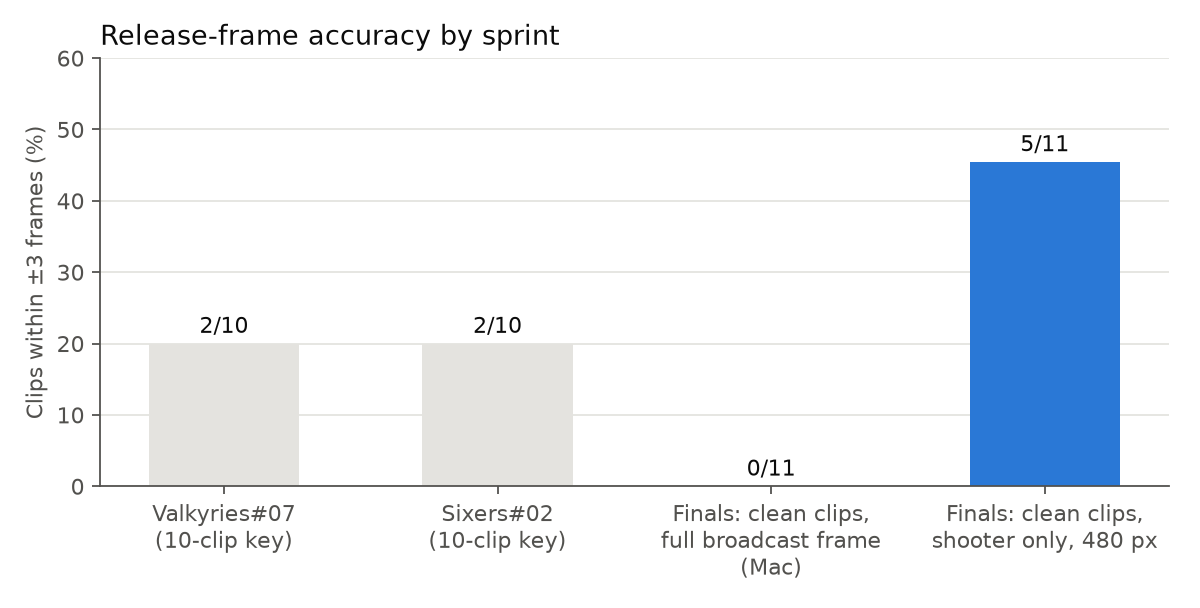
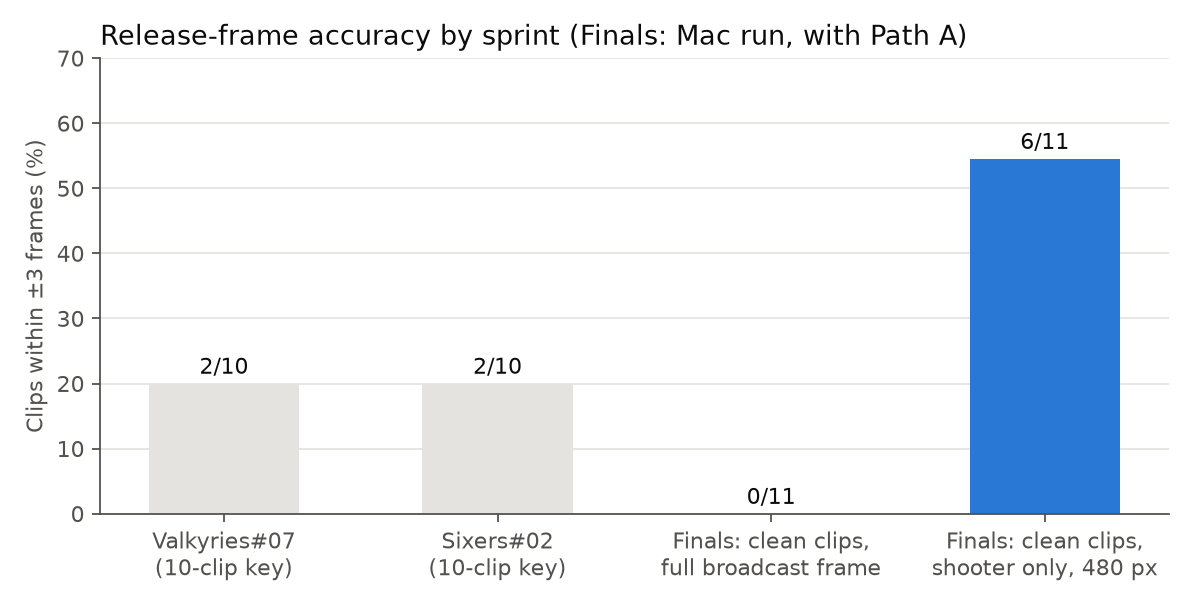
Finals#04

diff --git a/ml/tests/test_release_accuracy.py b/ml/tests/test_release_accuracy.py
@@ -5,8 +5,8 @@ on the answer-key clips that skip when the clips aren't downloaded
 (CLIPS_DIR, default ~/clips).
 
 Clean-set number this guards (Finals#04, testing/reports/accuracy.md):
-shooter-only 480 px clips -> 5/11 within ±3 frames; 6/11 get a release
-(average error 3.5 frames on those), the other 5 are refused with a reason.
+shooter-only 480 px clips (Mac, M3 Pro) -> 6/11 within ±3 frames; 8/11 get a
+release (average error 3.4 frames on those), the other 3 are refused with a reason.
 """
 import csv
 import os
@@ -36,9 +36,9 @@ SHOOTER_X = {
     "Kelvin_Huang_06_Make.mp4": 0.24, "Kelvin_Huang_09_Make.mp4": 0.25,
     "Veronica_made_04.mp4": 0.69,
 }
-FINAL_WITHIN_3 = 5      # of 11
-FINAL_AVG_ERROR = 3.5   # frames, over detected clips
-FINAL_REFUSED = 5       # clean clips returned as None
+FINAL_WITHIN_3 = 6      # of 11
+FINAL_AVG_ERROR = 3.4   # frames, over detected clips
+FINAL_REFUSED = 3       # clean clips returned as None
 WITHIN_3_SLACK = 2      # MediaPipe output differs a little between machines
 AVG_SLACK = 5.0
 

diff --git a/testing/reports/accuracy.md b/testing/reports/accuracy.md
@@ -96,88 +96,64 @@ Updated in `ml/feedback_rules.py` (ANGLE_RANGES) and `frontend/constants/ranges.
 
 ## Finals#04: clean answer key, honest accuracy
 
-**Clean answer key.** I picked 11 clips on footage quality alone, before running the detector: whole body and ball in frame, filmed from the side, sharp at the release, one continuous take, not rotated. Six come from the old key and five are new (Freya_Made_7, Kelvin_Huang_04/06/09_Make, Veronica_made_04). The new five are hand-labeled with the same rule as the old ones: the first frame where there's a visible gap between the ball and the fingertips. I spot-checked the six existing labels for clean clips and they follow the same rule. The 4 bad clips are flagged in `testing/test-videos.md` and stay in the CSV. Two more were picked from the Drive and then dropped: Freya_Made_8 is the same free throw as Freya_Made_7, and Freya_Made_6, Kelvin_Huang_01/05_Make and Veronica_made_02/06/07/08 have spliced intros. All the David_* and Anisha_* clips are rotated 90°.
+**Clean answer key.** I picked 11 clips on footage quality alone, before running the detector: whole body and ball in frame, filmed from the side, sharp at the release, one continuous take, not rotated. Six come from the old key and five are new (Freya_Made_7, Kelvin_Huang_04/06/09_Make, Veronica_made_04). The new five are hand-labeled with the same rule as the old ones: the first frame where there's a visible gap between the ball and the fingertips. I spot-checked the six existing clean labels, and Freya_Made_7 and Kelvin_Huang_04_Make were re-checked in `frame_viewer.py`. The 4 bad clips are flagged in `testing/test-videos.md` and stay in the CSV. Two more were picked from the Drive and then dropped: Freya_Made_8 is the same free throw as Freya_Made_7, and Freya_Made_6, Kelvin_Huang_01/05_Make and Veronica_made_02/06/07/08 have spliced intros. All the David_* and Anisha_* clips are rotated 90°.
 
-**Measured on:** Linux, MediaPipe 0.10.21, `-fps_mode passthrough` so frame numbers match the key. 480 px means 480 wide. **MediaPipe output differs a little between machines.** For example, Kelvin_Huang_05 was "118" on the Sixers#02 Mac run and is "None" here, so re-run on your machine before quoting single clips.
+**Measured on:** MacBook Pro (Apple M3 Pro), MediaPipe 0.10.21, with `python ~/clips/mac_eval.py`. It uses the same functions as `ml/tools/eval_release.py`. "Before" = Sixers#02 detector (release rule only); "after" = Finals#04 Path A checks. 480 px = 480 wide, encoded with `-fps_mode passthrough` so frame numbers match the key. **MediaPipe output differs between machines.** A Linux run gave different per-clip results; the conclusion was the same.
 
 ### Per clip, as filmed (full broadcast frame)
-"Before" is the Sixers#02 detector and "after" is Finals#04 Path A. Each cell is the detected frame, with the error in brackets.
+Each cell is the detected frame, with the error in brackets.
 
 | Clip | Quality | Hand label | Before full | Before 480 | After full | After 480 | Why None (after, full size) |
 |---|---|---:|---|---|---|---|---|
-| Veronica_made_05 | bad | 84 | 47 (37) | 124 (40) | None | None | Pose lost near the release |
-| Kelvin_Huang_05_Missed | clean | 63 | None | None | None | None | Wrist never goes above the shoulder |
-| Veronica_made_03 | clean | 183 | 185 (2) | None | 185 (2) | None |  |
-| Veronica_made_01 | clean | 56 | None | 0 (56) | None | 0 (56) | Wrist never goes above the shoulder |
-| Veronica_missed_03 | clean | 83 | 96 (13) | 149 (66) | None | None | Tracked person jumps / changes |
-| Kelvin_Huang_08_Missed | clean | 96 | 98 (2) | 54 (42) | 98 (2) | None |  |
-| Anisha_Made_05 | bad | 77 | 103 (26) | 103 (26) | None | None | Video looks sideways |
-| Rijul_missed_05 | bad | 71 | 97 (26) | None | None | None | Video looks sideways |
-| Veronica_missed_04 | bad | 31 | 16 (15) | 0 (31) | 16 (15) | 0 (31) |  |
-| Manoj_Missed_07 | clean | 115 | None | 117 (2) | None | None | Wrist never goes above the shoulder |
-| Freya_Made_7 | clean | 24 | 121 (97) | 129 (105) | 121 (97) | 129 (105) |  |
-| Kelvin_Huang_04_Make | clean | 91 | None | 217 (126) | None | 217 (126) | Wrist never goes above the shoulder |
-| Kelvin_Huang_06_Make | clean | 182 | None | 8 (174) | None | None | Wrist never goes above the shoulder |
-| Kelvin_Huang_09_Make | clean | 126 | 44 (82) | 186 (60) | None | None | Pose lost near the release |
-| Veronica_made_04 | clean | 59 | 171 (112) | 178 (119) | None | 178 (119) | Tracked person jumps / changes |
+| Veronica_made_05 | bad | 84 | 44 (40) | 45 (39) | 44 (40) | None |  |
+| Kelvin_Huang_05_Missed | clean | 63 | 118 (55) | 3 (60) | None | None | Pose lost near the release |
+| Veronica_made_03 | clean | 183 | 185 (2) | 105 (78) | None | 105 (78) | Tracked person jumps / changes |
+| Veronica_made_01 | clean | 56 | None | 8 (48) | None | None | Wrist never goes above the shoulder |
+| Veronica_missed_03 | clean | 83 | 96 (13) | 185 (102) | 96 (13) | None |  |
+| Kelvin_Huang_08_Missed | clean | 96 | 72 (24) | 114 (18) | None | None | Tracked person jumps / changes |
+| Anisha_Made_05 | bad | 77 | 104 (27) | 103 (26) | None | None | Video looks sideways |
+| Rijul_missed_05 | bad | 71 | 90 (19) | None | None | None | Video looks sideways |
+| Veronica_missed_04 | bad | 31 | 14 (17) | 0 (31) | 14 (17) | 0 (31) |  |
+| Manoj_Missed_07 | clean | 115 | 116 (1) | 114 (1) | None | None | Tracked person jumps / changes |
+| Freya_Made_7 | clean | 24 | 115 (91) | None | None | None | Tracked person jumps / changes |
+| Kelvin_Huang_04_Make | clean | 91 | 24 (67) | 123 (32) | None | None | Pose lost near the release |
+| Kelvin_Huang_06_Make | clean | 182 | 2 (180) | 270 (88) | 2 (180) | 270 (88) |  |
+| Kelvin_Huang_09_Make | clean | 126 | 187 (61) | 96 (30) | 187 (61) | None |  |
+| Veronica_made_04 | clean | 59 | 185 (126) | 158 (99) | None | None | Tracked person jumps / changes |
 
 | Set (full broadcast frame) | Size | Within ±3 | Release found | Avg error (found only) |
 |---|---|---|---|---|
-| Clean, before | full / 480 | 2/11 / 1/11 | 6 / 9 | 51.3 / 83.3 |
-| Clean, after | full / 480 | 2/11 / 0/11 | 3 / 4 | 33.7 / 101.5 |
-| Bad, before | full / 480 | 0/4 / 0/4 | 4 / 3 | 26.0 / 32.3 |
-| Bad, after | full / 480 | 0/4 / 0/4 | 1 / 1 | 15.0 / 31.0 |
-| All 15, before | full / 480 | 2/15 / 1/15 | 10 / 12 | 41.2 / 70.6 |
+| Clean, before | full / 480 | 2/11 / 1/11 | 10 / 10 | 62.0 / 55.6 |
+| Clean, after | full / 480 | 0/11 / 0/11 | 3 / 2 | 84.7 / 83.0 |
+| Bad, before | full / 480 | 0/4 / 0/4 | 4 / 3 | 25.8 / 32.0 |
+| Bad, after | full / 480 | 0/4 / 0/4 | 2 / 1 | 28.5 / 31.0 |
+| All 15, before | full / 480 | 2/15 / 1/15 | 14 / 13 | 51.6 / 50.2 |
+| All 15, after | full / 480 | 0/15 / 0/15 | 5 / 3 | 62.2 / 65.7 |
 
-**Why clean clips still fail: the pose is on the wrong player.** In broadcast footage there are 8 to 10 people on screen, and MediaPipe Pose tracks one of them, often not the shooter. I checked the 15 frames before each hand label to see whether the tracked body was the shooter. It was for only 3 runs, which were Veronica_made_03 (full size), Kelvin_08 (full size) and Manoj_07 (480). All 3 were **2 frames off**, and every other run was on another player or had no pose. So the "Wrist never goes above the shoulder" results are mostly a bystander standing still. See `docs/writeups/img/wrong_person_Veronica_made_01.jpg`.
+**Why clean clips fail as filmed: the pose is on the wrong player.** Broadcast footage has 8 to 10 people on screen, and MediaPipe Pose tracks one of them, often not the shooter. On a Linux run I checked the 15 frames before each hand label to see whether the tracked body was the shooter. It was in only 3 runs, and all 3 were **2 frames off**. Every other run was on another player or had no pose. See `docs/writeups/img/wrong_person_Veronica_made_01.jpg`.
 
 ### Clean clips with only the shooter in frame (what the app asks users to film)
 Same 11 clips, cropped to 30% of the width around the shooter and scaled to 480 px. `ml/tests/test_release_accuracy.py` builds exactly this.
 
-| Clip | Hand label | Rule only | With Path A checks | Why None |
+| Clip | Hand label | Before (rule only) | After (Path A) | Why None |
 |---|---:|---|---|---|
-| Kelvin_Huang_05_Missed | 63 | 73 (10) | None | Tracked person jumps / changes |
-| Veronica_made_03 | 183 | 185 (2) | 185 (2) |  |
-| Veronica_made_01 | 56 | None | None | Wrist never goes above the shoulder |
-| Veronica_missed_03 | 83 | None | None | Wrist never goes above the shoulder |
-| Kelvin_Huang_08_Missed | 96 | 98 (2) | 98 (2) |  |
+| Kelvin_Huang_05_Missed | 63 | 65 (2) | None | Tracked person jumps / changes |
+| Veronica_made_03 | 183 | 184 (1) | 184 (1) |  |
+| Veronica_made_01 | 56 | 51 (5) | 51 (5) |  |
+| Veronica_missed_03 | 83 | 83 (0) | 83 (0) |  |
+| Kelvin_Huang_08_Missed | 96 | 99 (3) | 99 (3) |  |
 | Manoj_Missed_07 | 115 | None | None | Wrist never goes above the shoulder |
 | Freya_Made_7 | 24 | 26 (2) | 26 (2) |  |
-| Kelvin_Huang_04_Make | 91 | 92 (1) | 92 (1) |  |
+| Kelvin_Huang_04_Make | 91 | 93 (2) | 93 (2) |  |
 | Kelvin_Huang_06_Make | 182 | 185 (3) | 185 (3) |  |
-| Kelvin_Huang_09_Make | 126 | None | None | Wrist never goes above the shoulder |
+| Kelvin_Huang_09_Make | 126 | 127 (1) | None | Tracked person jumps / changes |
 | Veronica_made_04 | 59 | 70 (11) | 70 (11) |  |
 
-**Shooter only, 480 px: 5/11 within ±3. A release is found on 6/11, and those 6 average 3.5 frames off (5 of them within ±3). The other 5 are refused with a reason instead of a wrong frame.** The crop still has a teammate or defender in view, so some refusals are the same wrong-person problem.
-
-
-### Re-run on a Mac (official step-7 command, Apple M3 Pro)
-`python -m ml.tools.eval_release ~/clips data/release_frames.csv`, after Path A, full broadcast frame:
-
-| Clip | Quality | Hand label | Detected (error) | Note |
-|---|---|---:|---|---|
-| Veronica_made_05 | bad | 84 | 44 (40) |  |
-| Kelvin_Huang_05_Missed | clean | 63 | None | Pose lost near the release |
-| Veronica_made_03 | clean | 183 | None | Tracked person jumps / changes |
-| Veronica_made_01 | clean | 56 | None | Wrist never goes above the shoulder |
-| Veronica_missed_03 | clean | 83 | 96 (13) |  |
-| Kelvin_Huang_08_Missed | clean | 96 | None | Tracked person jumps / changes |
-| Anisha_Made_05 | bad | 77 | None | Video looks sideways |
-| Rijul_missed_05 | bad | 71 | None | Video looks sideways |
-| Veronica_missed_04 | bad | 31 | 14 (17) |  |
-| Manoj_Missed_07 | clean | 115 | None | Tracked person jumps / changes |
-| Freya_Made_7 | clean | 24 | None | Tracked person jumps / changes |
-| Kelvin_Huang_04_Make | clean | 91 | None | Pose lost near the release |
-| Kelvin_Huang_06_Make | clean | 182 | 2 (180) |  |
-| Kelvin_Huang_09_Make | clean | 126 | 187 (61) |  |
-| Veronica_made_04 | clean | 59 | None | Tracked person jumps / changes |
-
-| Set (Mac, full frame) | Within ±3 | Release found | Avg error (found only) |
+| Shooter only, 480 px | Within ±3 | Release found | Avg error (found only) |
 |---|---|---|---|
-| Clean | 0/11 | 3/11 | 84.7 |
-| Bad | 0/4 | 2/4 | 28.5 |
-| All 15 | 0/15 | 5/15 | 62.2 |
+| Before (rule only) | **8/11** | 10/11 | **3.0** |
+| After (Path A) | **6/11** | 8/11 | **3.4** |
 
-The Mac and Linux runs differ clip by clip because MediaPipe's pose output isn't identical across machines, but the picture is the same: on the full broadcast frame the pose is usually on the wrong player. The shooter-only accuracy test (`test_clean_set_release_accuracy`) **passes on the Mac**, meaning at least 3/11 within ±3 and at most 7 refused (64/64 tests pass).
+**Verdict: with only the shooter in view, the detector is good: 8 of 11 within ±3, average 3.0 frames.** The error comes from upstream: who the pose model tracks, plus rotated and spliced footage. → **Path A:** stop tuning the release rule, make bad footage fail gracefully, and require "only the shooter in frame" when filming.
 
-**Verdict:** when the pose is on the shooter, the release rule is within ±3 almost every time. The error is upstream, in who the pose model tracks, and in rotated or spliced footage. → **Path A:** stop tuning the release rule, make bad footage fail gracefully, and require "only the shooter in frame" when filming.
+**Cost of Path A on clean footage:** the person-switch check also refused 2 correct answers (Kelvin_Huang_05: 2 off, Kelvin_Huang_09: 1 off), because a teammate or defender is still in the crop. In exchange, it refuses the rotated clips and most wrong-player tracks on the full broadcast frame. If the PM prefers fewer refusals, raise `SPLICE_JUMP` in `ml/release_frame_detector.py`.

diff --git a/docs/writeups/accuracy.md b/docs/writeups/accuracy.md
@@ -5,7 +5,7 @@ The release-frame detector averaged about 22 frames off on the 10-clip answer ke
 
 ## What we found
 - **Clean answer key.** 11 clips picked on footage alone, before running the detector: whole body and ball in frame, side view, sharp at the release, one continuous take, not rotated. Each is hand-labeled with one rule: the first frame where there's a gap between ball and fingertips. Bad clips are flagged in `testing/test-videos.md` and kept for testing failure handling.
-- **The release rule isn't the main problem.** All our test clips are NBA/WNBA broadcasts with 8 to 10 people in view, and MediaPipe Pose tracks one person, often a bystander. Every time the pose *was* on the shooter, the detected release was **2 frames** off.
+- **The release rule isn't the main problem.** All our test clips are NBA/WNBA broadcasts with 8 to 10 people in view, and MediaPipe Pose tracks one person, often a bystander. Every time the pose *was* on the shooter, the detected release was **2 frames** off. With only the shooter in view, the existing rule gets **8 of 11 clips within ±3 frames, averaging 3.0 frames off**.
 
 ![Pose locked onto the wrong player](img/wrong_person_Veronica_made_01.jpg)
 
@@ -14,23 +14,25 @@ The release-frame detector averaged about 22 frames off on the 10-clip answer ke
   - the tracked body jumps more than 2.5 torso lengths in one frame, or changes size more than 1.8×, *and stays there*, which means a cut or a switch to another person. One-frame glitches that snap back are ignored.
   - more than 5 frames of pose are missing within ±8 frames of the release
 
-  I tuned the jump threshold on every run (49 detections). At 2.5 it refuses 1 of 19 correct answers and 7 of 30 wrong ones. At 1.5 it refused 4 correct answers.
+  I tuned the jump threshold on a Linux run (49 detections). At 2.5 it refused 1 of 19 correct answers and 7 of 30 wrong ones. At 1.5 it refused 4 correct answers.
 
 ## Numbers
+All Finals numbers are from a MacBook Pro (M3 Pro). The full per-clip tables are in `testing/reports/accuracy.md`.
+
 | Footage | Within ±3 | Release found | Avg error when found |
 |---|---|---|---|
-| Old 10-clip key, Sixers#02 (Mac) | 2/10 | 9/10 | 22.0 |
-| Clean clips, full broadcast frame, before | 2/11 | 6/11 | 51.3 |
-| Clean clips, full broadcast frame, after (Path A) | 2/11 | 3/11 | 33.7 |
-| **Clean clips, shooter only, 480 px (server size), after** | **5/11** | **6/11** | **3.5** |
-| Bad clips (rotated / spliced), before → after | 0/4 → 0/4 | 4 → 1 | 26.0 → 15.0 |
+| Old 10-clip key, Sixers#02 | 2/10 | 9/10 | 22.0 |
+| Clean clips, full broadcast frame, before → after | 2/11 → 0/11 | 10 → 3 | 62.0 → 84.7 |
+| **Clean clips, shooter only, 480 px (server size), before (rule only)** | **8/11** | **10/11** | **3.0** |
+| **Clean clips, shooter only, 480 px, after (Path A)** | **6/11** | **8/11** | **3.4** |
+| Bad clips (rotated / spliced), full size, before → after | 0/4 → 0/4 | 4 → 2 | 25.8 → 28.5 |
 
-Three of the four bad clips are now refused instead of being 15 to 40 frames off: both rotated clips, and the spliced Veronica_made_05.
+The two rotated clips are now refused instead of being 19 to 27 frames off. The spliced intros still slip through: Veronica_made_05 returns a frame 40 off, and Veronica_missed_04 one 17 off. Path A also refuses 2 correct answers on shooter-only footage (Kelvin_Huang_05 and Kelvin_Huang_09), because another player is still in the crop.
 
 ![Accuracy by sprint](img/accuracy_progress.png)
 ![Per-clip error, shooter only](img/per_clip_error.png)
 
-**Debug plots** (elbow angle and wrist height; dashed = hand label, orange = detected):
+**Debug plots** (Linux run; elbow angle and wrist height; dashed = hand label, orange = detected):
 
 ![Clean hit](img/debug_Freya_Made_7.png)
 ![Wrong player tracked](img/debug_Veronica_made_01.png)
@@ -53,5 +55,6 @@ Three of the four bad clips are now refused instead of being 15 to 40 frames off
 ## What's left
 - **Pose tracks the wrong person in crowded footage.** That's the biggest remaining error, and a person-switch is only caught if it happens *mid-clip*. A clip locked onto a bystander from the start still returns a wrong frame (Freya_Made_7 full frame: 97 off). Next step: run MediaPipe's multi-person `PoseLandmarker` and pick the body whose wrist rises above its head.
 - **We have no real "one person, side-on" phone clips.** Every clip in the Drive is broadcast footage, and the shooter-only numbers come from crops of it. A short session filming teammates would give the true number.
-- **The splice and intro check misses intros with no full-body pose.** Veronica_missed_04 opens on a face close-up and still returns a frame 15 off.
-- **Results vary by machine.** MediaPipe output differs between Mac and Linux by a few frames, and sometimes found vs None. The accuracy test allows 2 clips of slack.
+- **The splice and intro check misses intros with no full-body pose.** Veronica_made_05 and Veronica_missed_04 open on close-ups and still return a frame (40 and 17 off).
+- **Path A refuses some good clips.** 2 of 11 shooter-only clips were refused because a second player is in view. Raise `SPLICE_JUMP` if fewer refusals matter more.
+- **Results vary by machine.** MediaPipe output differs between Mac and Linux, by a few frames and sometimes between found and None. The accuracy test allows 2 clips of slack and passes on both.
